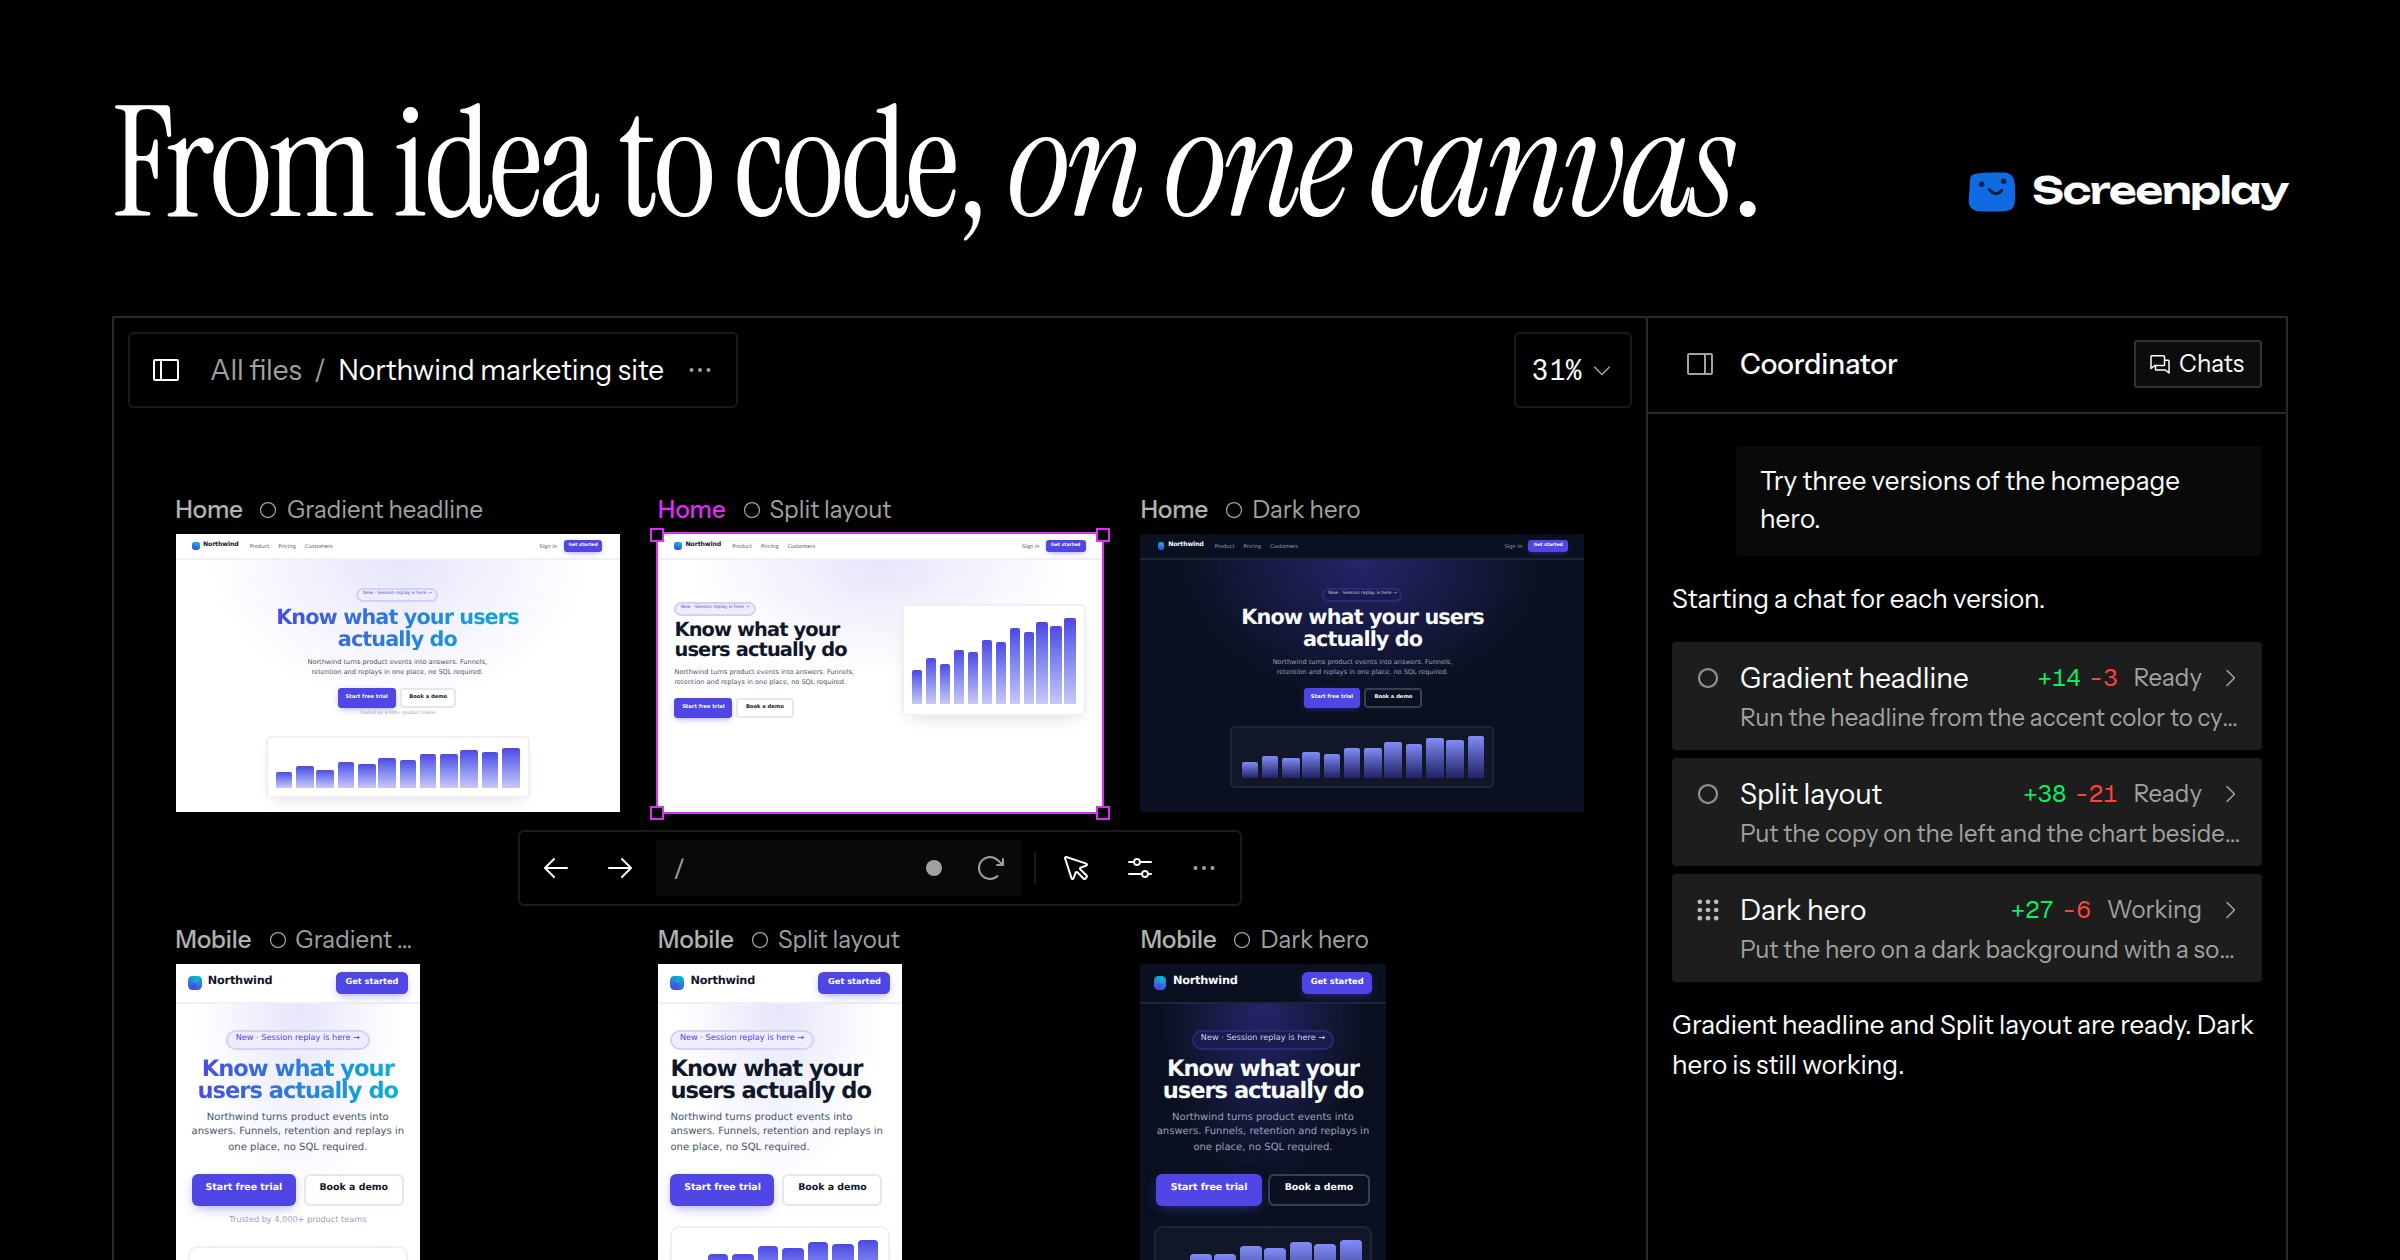
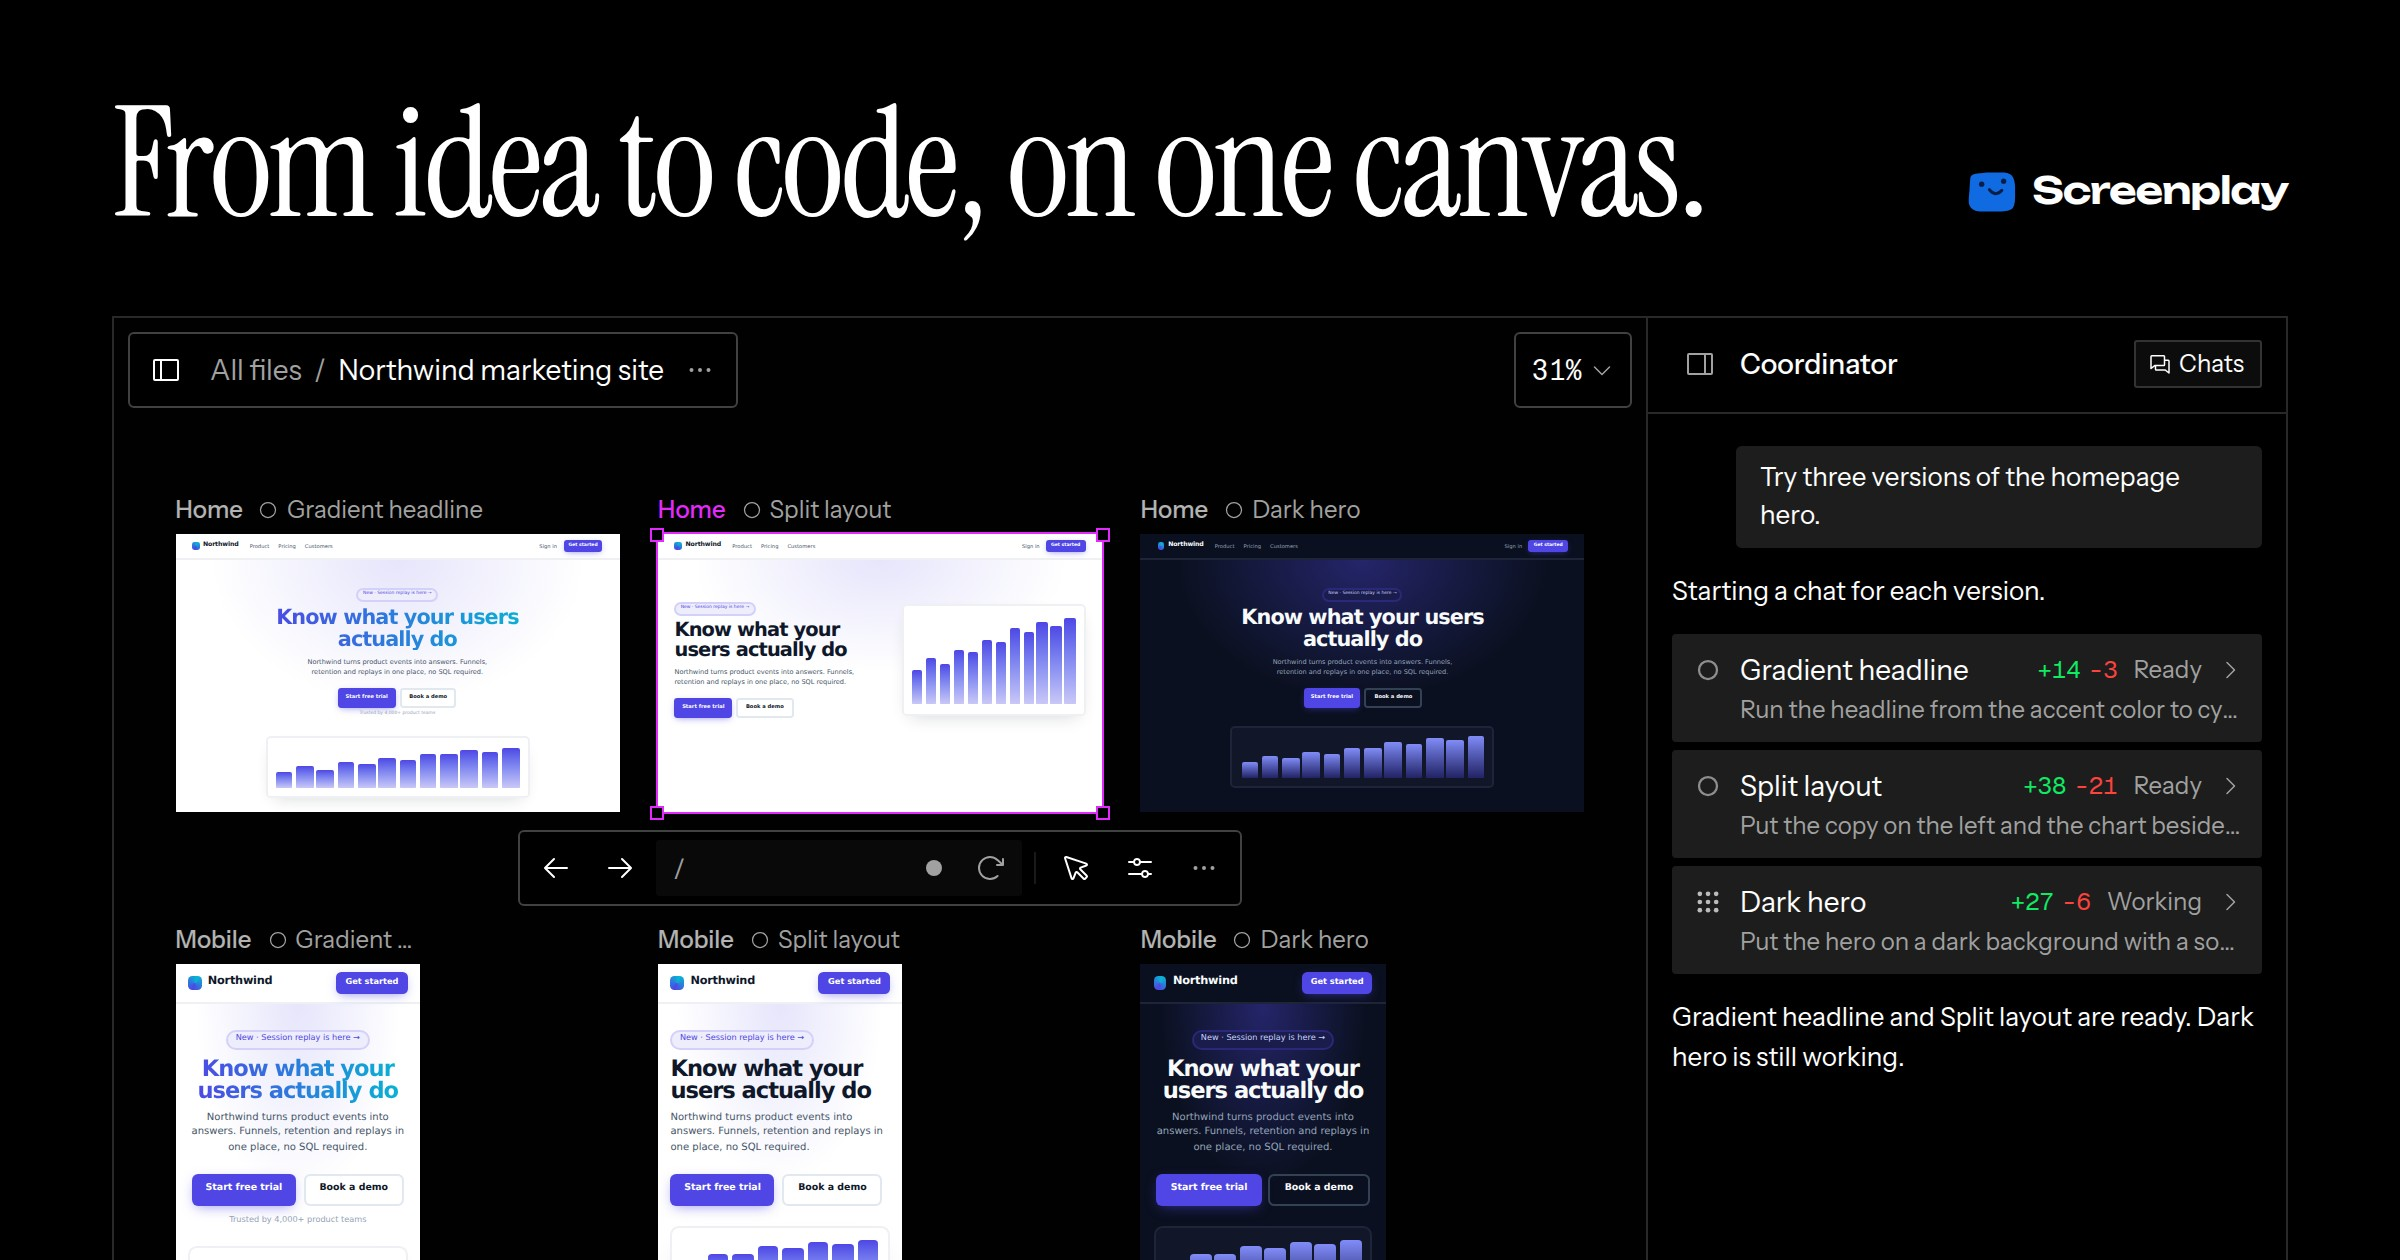
Homepage: catch up with what shipped, one-column For teams head, phone Download to hero buttons (#1684)
Design audit 5 Oct 2026 (P7-P9, H3, H4, N4-N7): OpenCode in Your agents and
models, skills are offered for saving, Create PR and / skill in the excerpts,
meta description names hosting, plain OG headline (regenerated image),
For teams heading set like the other sections, #faq anchor, and the phone
header Download scrolls to the hero's button row.

Claude-Session: https://claude.ai/code/session_016E6fLVW5X9a4hncaxWWZxf

Changed region(s): [[0.6875, 0.4643, 0.9375, 0.8667], [0.4062, 0.0929, 0.7188, 0.1857], [0.7188, 0.3714, 0.9062, 0.4333]]

diff --git a/apps/homepage/components/marketing/site/self-hosting.tsx b/apps/homepage/components/marketing/site/self-hosting.tsx
@@ -36,27 +36,22 @@ const perks = {
   },
 }
 
-function TeamsHead({ figure }: { figure?: React.ReactNode }) {
+/** The heading and pitch, as the other story sections set theirs, then the
+ *  guide. One column, since every perk below brings its own picture. */
+function TeamsHead() {
   return (
     <>
-      <SectionHeading slug="For teams" title="Host it and build together." />
-      <div className="mt-12 grid items-start gap-12 lg:grid-cols-[minmax(0,5fr)_minmax(0,7fr)]">
-        <div className="flex flex-col items-start gap-8">
-          <p className="max-w-[44ch] text-lg leading-relaxed text-muted-foreground sm:text-[19px]">
-            Deploy the web app and your team shares one canvas from any
-            browser, with everyone’s cursors on it. Every chat runs in its
-            own cloud sandbox, so nobody installs anything. The software is free
-            and MIT licensed; you pay for hosting and model usage.
-          </p>
-          <a
-            href={`${docsUrl}/self-hosting`}
-            className={buttonClass("outline", "lg")}
-          >
-            Self-hosting guide
-          </a>
-        </div>
-        {figure}
-      </div>
+      <SectionHeading
+        slug="For teams"
+        title="Host it and build together."
+        body="Deploy the web app and your team shares one canvas from any browser, with everyone’s cursors on it. Every chat runs in its own cloud sandbox, so nobody installs anything. The software is free and MIT licensed; you pay for hosting and model usage."
+      />
+      <a
+        href={`${docsUrl}/self-hosting`}
+        className={cn(buttonClass("outline", "lg"), "mt-8")}
+      >
+        Self-hosting guide
+      </a>
     </>
   )
 }
@@ -72,7 +67,7 @@ export function SelfHosting() {
   return (
     <section id="self-hosting" className={cn(measure, sectionTop)}>
       <TeamsHead />
-      <ul className="mt-4 grid gap-x-12 border-t border-foreground md:grid-cols-2">
+      <ul className="mt-12 grid gap-x-12 border-t border-foreground md:grid-cols-2">
         {pictured.map(([p, Pic]) => (
           <li
             key={p.title}

diff --git a/apps/homepage/components/marketing/excerpts/make.tsx b/apps/homepage/components/marketing/excerpts/make.tsx
@@ -61,7 +61,7 @@ export function ChatHeader({
         {pr ? (
           <span className="flex h-6 items-center gap-1 rounded-md border border-input bg-input/30 px-2 text-xs font-medium [&_svg]:size-3.5">
             <GitPullRequestIcon />
-            Create pull request
+            Create PR
           </span>
         ) : null}
       </span>
@@ -69,14 +69,14 @@ export function ChatHeader({
   )
 }
 
-/** Ship it: the built take's chat, Create pull request in its header. */
+/** Ship it: the built take's chat, Create PR in its header. */
 export function PrHeaderExcerpt() {
   return (
     <Fit
       width={320}
       height={256}
       role="img"
-      aria-label="The Dark hero chat, with Create pull request in its header."
+      aria-label="The Dark hero chat, with Create PR in its header."
       className="border border-border bg-background text-foreground"
     >
       <div className="flex size-full flex-col">

diff --git a/apps/homepage/components/marketing/site/hero.tsx b/apps/homepage/components/marketing/site/hero.tsx
@@ -22,7 +22,12 @@ export function Hero() {
             <br className="sm:hidden" /> to code,
             <br /> on one canvas.
           </h1>
-          <div className="mt-14 grid items-end gap-6 md:mb-4 md:grid-cols-[minmax(0,1fr)_auto] md:items-center md:gap-12">
+          {/* The header's phone Download lands here, 108px under the bar like
+              the sections, so the lede, buttons and note come into view whole. */}
+          <div
+            id="download"
+            className="mt-14 grid scroll-mt-[108px] items-end gap-6 md:mb-4 md:grid-cols-[minmax(0,1fr)_auto] md:items-center md:gap-12"
+          >
             <p className="max-w-[36ch] text-lg leading-[1.45] sm:text-[22px]">
               Coding agents plan, mock up and build from your own repo, with
               every version live side by side.

diff --git a/apps/homepage/components/marketing/header.tsx b/apps/homepage/components/marketing/header.tsx
@@ -65,7 +65,16 @@ export function Header() {
           >
             GitHub
           </a>
-          <a href={downloadUrl} className={buttonClass("solid")}>
+          {/* A phone can't open the .dmg, so below sm Download scrolls to the
+              hero's buttons, where the Apple Silicon note and Host it for
+              your team sit with it. */}
+          <a href="#download" className={cn(buttonClass("solid"), "sm:hidden")}>
+            Download
+          </a>
+          <a
+            href={downloadUrl}
+            className={cn(buttonClass("solid"), "max-sm:hidden")}
+          >
             Download
           </a>
         </div>

diff --git a/apps/homepage/app/layout.tsx b/apps/homepage/app/layout.tsx
@@ -44,7 +44,7 @@ export const metadata: Metadata = {
   twitter: { card: "summary_large_image" },
   title: "Screenplay — from idea to code, on one canvas",
   description:
-    "Coding agents plan, mock up and build from your own repo, with every version live side by side. Free and open source, for Mac.",
+    "Coding agents plan, mock up and build from your own repo, with every version live side by side. Free and open source: a Mac app, or host it for your team.",
 }
 
 export default function RootLayout({

diff --git a/apps/homepage/components/marketing/site/features.tsx b/apps/homepage/components/marketing/site/features.tsx
@@ -22,7 +22,7 @@ const features: { title: string; body: string }[] = [
   },
   {
     title: "Your agents and models",
-    body: "Use Claude Code or Codex with the subscription you already have, and pick the model per chat. Steer an agent mid-turn by sending a message while it works.",
+    body: "Use Claude Code, Codex or OpenCode with the subscription you already have, and pick the model per chat. Steer an agent mid-turn by sending a message while it works.",
   },
   {
     title: "Runs on your Mac",

diff --git a/apps/homepage/components/marketing/excerpts/canvas.tsx b/apps/homepage/components/marketing/excerpts/canvas.tsx
@@ -476,7 +476,7 @@ function Coordinator() {
       </div>
       <div className="m-3 mt-0 flex flex-col gap-3 rounded-lg border border-border p-3 text-[13px]">
         <span className="truncate text-muted-foreground">
-          Ask the Coordinator… (@ document)
+          Ask the Coordinator… (@ document, / skill)
         </span>
         <div className="flex items-center gap-3 text-xs">
           <span className="flex items-center gap-1">

diff --git a/apps/homepage/app/og/page.tsx b/apps/homepage/app/og/page.tsx
@@ -19,7 +19,7 @@ export default function OgImage() {
     >
       <div className="flex items-end justify-between gap-8">
         <h1 className="font-headline text-[76px] leading-[0.92] font-normal tracking-[-0.025em] whitespace-nowrap">
-          From idea to code, <em>on one canvas</em>.
+          From idea to code, on one canvas.
         </h1>
         <div className="pb-2.5">
           <Wordmark />

diff --git a/apps/homepage/components/marketing/site/memory.tsx b/apps/homepage/components/marketing/site/memory.tsx
@@ -17,7 +17,7 @@ const contextItems = [
   },
   {
     title: "Skills",
-    body: "Type / to use a skill from the repository, the canvas, your account or Screenplay. Chats save new ones when they learn a workflow.",
+    body: "Type / to use a skill from the repository, the canvas, your account or Screenplay. Chats offer to save new ones when they learn a workflow.",
   },
   {
     title: "Attachments",

diff --git a/apps/homepage/components/marketing/site/faq.tsx b/apps/homepage/components/marketing/site/faq.tsx
@@ -44,7 +44,7 @@ const faqs = [
 
 export function Faq() {
   return (
-    <section className={cn(measure, sectionTop)}>
+    <section id="faq" className={cn(measure, sectionTop)}>
       <SectionHeading slug="FAQ" title="Before you start." tier="reference" />
       <div className="mt-12 border-t border-foreground">
         {faqs.map((f) => (
